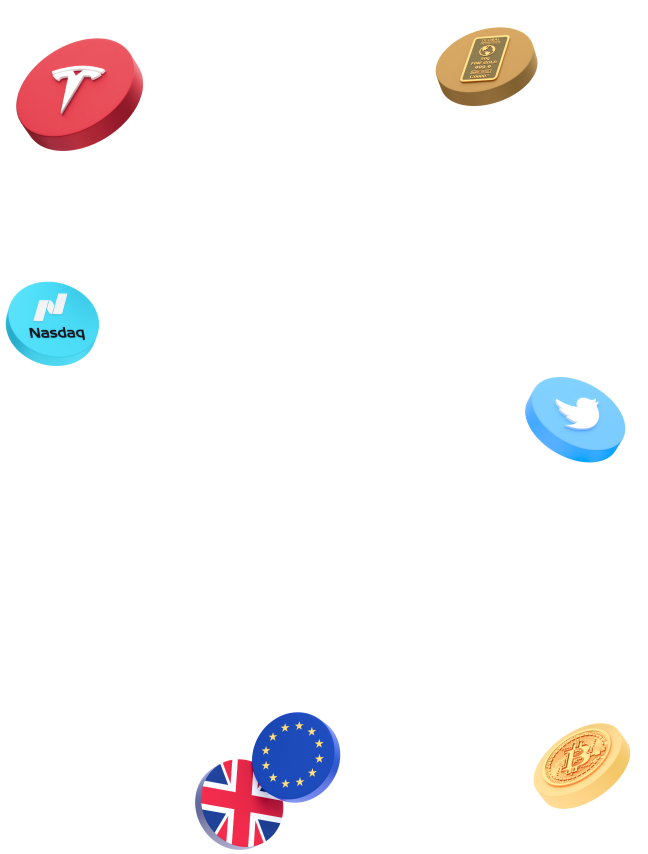
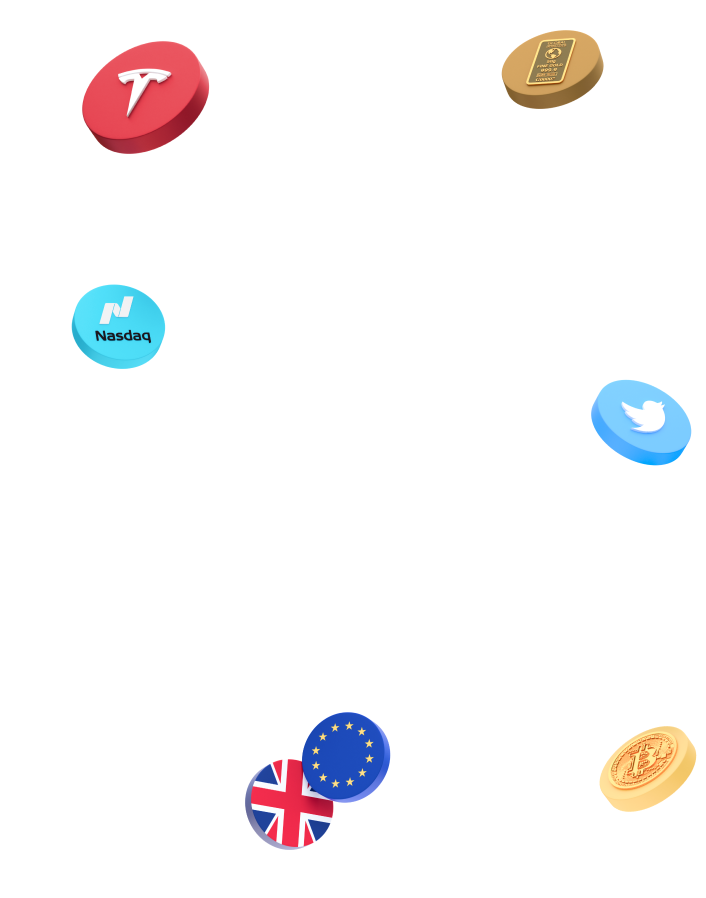
test__2

diff --git a/themes/custom/adrofx_theme/partners/css/style.css b/themes/custom/adrofx_theme/partners/css/style.css
@@ -4214,6 +4214,10 @@ input[type=range]::-webkit-slider-thumb {
   .section-header.hybrid-program {
     margin-top: 50px;
   }
+
+  .hybrid-program-icons {
+    left: 60px;
+  }
 }
 
 @media (max-width: 767.98px) {
@@ -4666,6 +4670,9 @@ input[type=range]::-webkit-slider-thumb {
     font-size: 0.875rem;
   }
 
+  .hybrid-program-icons {
+    left: 0;
+  }
 
 }
 
